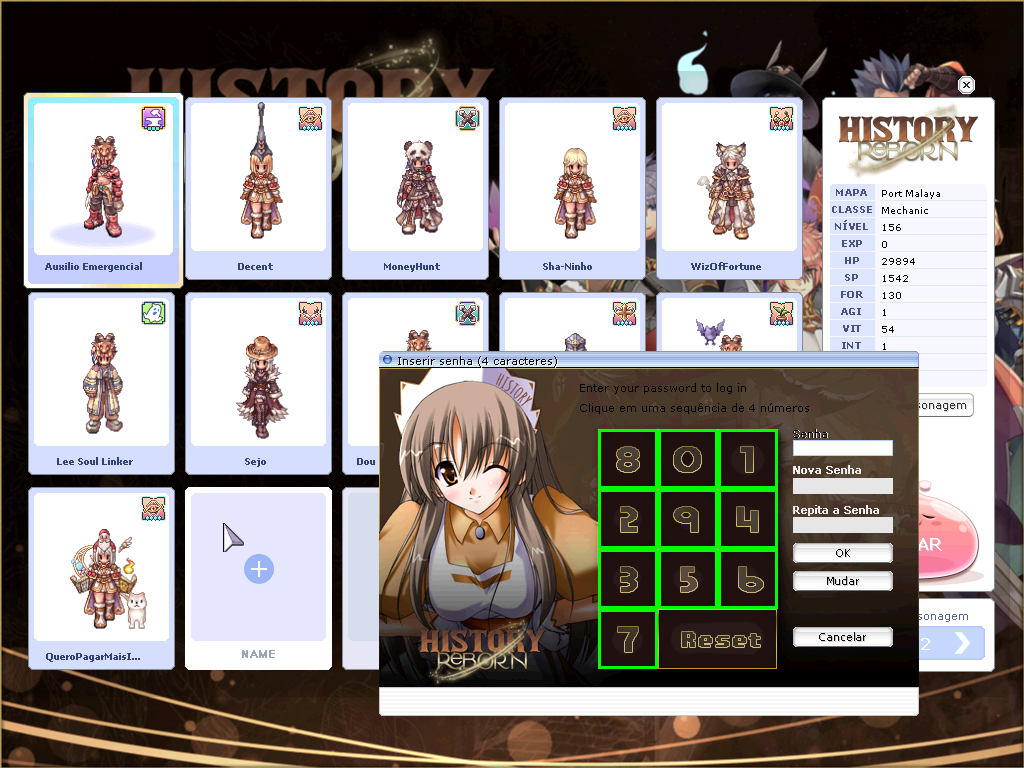
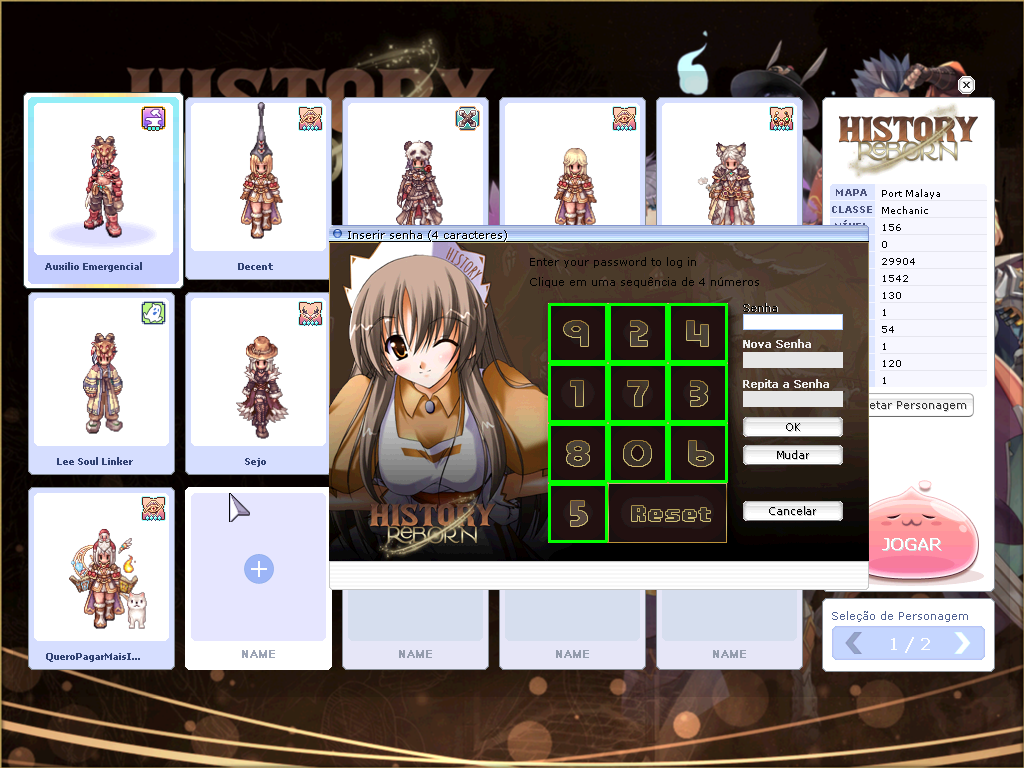
teste logando sem pin

diff --git a/src/main/java/com/ragnarokbot/main/GameController.java b/src/main/java/com/ragnarokbot/main/GameController.java
@@ -2057,7 +2057,7 @@ public class GameController implements Runnable {
 		bot.sleep(10000);
 
 		System.out.println("Chega na parte do pin...");
-		bot.inserirPin(pin);
+		//bot.inserirPin(pin);
 		bot.sleep(1000);
 
 		int indexPersonagem = scriptContas.getContas().get(indexConta).getPersonagens().get(this.indexPersonagem)

diff --git a/src/main/java/com/ragnarokbot/model/enums/Effects.java b/src/main/java/com/ragnarokbot/model/enums/Effects.java
@@ -14,6 +14,7 @@ public enum Effects {
     BLIND(887),
     CONFUSION(886),
     CURSE(884),
+    
     QUAGMIRE(8),
     HALLUCINATIONWALK(334),
     HALLUCINATION(34),
